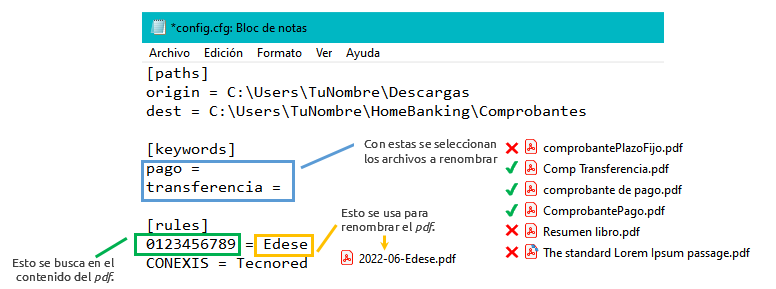
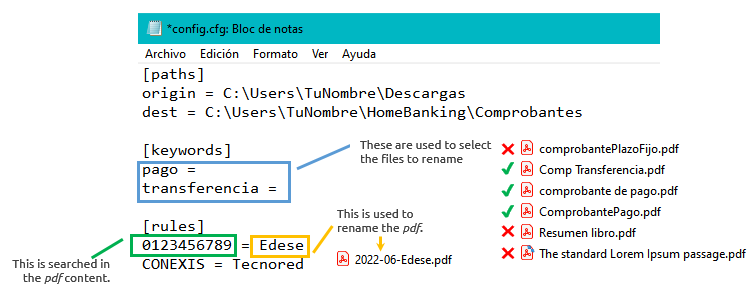
Modify and translate main README and add a README.es. Add translated config image.

diff --git a/README.md b/README.md
@@ -1,42 +1,46 @@
-# ordenamelo
-> Una app cli para renombrar y mover esos odiosos comprobantes de pago mensuales!
+# ordenamelo (tidy up)
 
-![license](https://img.shields.io/badge/license-Apache-orange)
+**A cli app to rename and move those awful monthly payment receipts!**
+
+![Category](https://img.shields.io/badge/%23-scripting%20%7C%20automation-success)
 ![made_with](https://img.shields.io/badge/Made%20with-Python-blue)
-[![Maintenance](https://img.shields.io/badge/Maintained%3F-yes-green.svg)](https://github.com/gonzalezgbr/sachagrilla/graphs/commit-activity)
+![license](https://img.shields.io/badge/license-Apache-orange)
 
 
-Si haces muchos pagos por home banking y guardas los comprobantes pero no tienes ganas de ordenarlos, esta es tu solución!
+*Read this in other languages:* [*README.es*](README.es.md) 
 
-Con `ordenamelo` puedes renombrar los archivos pdf de comprobantes de pago o transferencias con un solo comando. 
-Opcionalmente, se pueden mover a una carpeta pre-definida.
+## What is it?
 
-## Instalación
+If you usually make *a lot* of payments through home banking and like to save the receipts in an orderly fashion, but *really* hate to do it by hand, this is your solution!
 
-> ⚠ *Por el momento, `ordenamelo` solo se puede instalar como un paquete Python, es decir, tienes que tener Python y pip instalado en tu sistema.*   
+With `ordenamelo` you can rename the *pdf* files for payment or transfer receipts using a single command. They can also, optionally, be moved to a pre-defined folder. 
 
-1. Descargar `.whl` de la carpeta `dist/` de este repo.
-2. En una terminal ejecutar: 
+## Installation
+
+> ⚠ *Currently, `ordenamelo` can only be installed as a Python package, meaning you need to have Python and pip installed on your system.*   
+
+1. Download `.whl` file from `dist/` folder in this repo.
+2. Open a terminal window and execute: 
 
 - OS X & Linux:
 
 ```shell
-python3 -m pip install nombre_del_wheel_.whl
+python3 -m pip install wheel_name.whl
 ```
    
 - Windows:
 
 ```shell
-py -m pip install nombre_del_wheel.whl 
+py -m pip install wheel_name.whl 
 ```
 
-## Como usar
+## Usage
 
-La primera vez vas a tener que configurar tus carpetas, palabras clave y reglas.
+The first time to use it, you will need to configure folders, keywords and rules. 
 
-> ⚠ *Actualmente, `ordenamelo` solo funciona con comprobantes de los bancos Nación y Santander de Argentina.* 
+> ⚠ *Currently, `ordenamelo` only works with bank receipts from Banco de la Nación Argentina and Banco Santander.* 
 
-### Configurar
+### 1. Configure
 
 ```shell
 ordenamelo --config 
@@ -44,53 +48,69 @@ ordenamelo --config
 
 ![config](docs/config.png)
 
-- Sección `paths`:
-  - `origin` carpeta donde buscar los comprobantes. Usualmente será *descargas*.
-  - `dest` carpeta a donde mover los comprobantes. Tener en cuenta que dentro de esta carpeta:
-    - se crea una carpeta por año para guardar los comprobantes
-    - se crea una carpeta `transferencias` dentro de la anual para guardar los comprobantes de transferencias
+- Section `paths`:
+  - `origin` folder where to look for receipts. Usually *downloads*.
+  - `dest` folder where to move the receipts after renaming them. Within this folder:
+    - a yearly folder will be created, to store receipts by date 
+    - a `transferencias` folder will be created, within the yearly one, to store transfer receipts 
 
-- Sección `keywords`:
-  - Se deben incluir las palabras que identifican a los archivos. Usualmente `pago` y `transferencia` son suficientes.
-  - Deben ir una por línea y con signo = al final.
+- Section `keywords`:
+  - Include the words that identify the files to rename. Usually `pago` and `transferencia` are good enough.
+  - They must go one on each line and with the = sign at the end. 
 
-- Sección `rules`: contiene las reglas para renombrar los archivos.
-  - El formato general del nombre es AÑO-MES-textoDerechaRule.pdf
-    - El año y el mes se toman automáticamente el día del pago (cuando se genera el pdf del comprobante).
-    - Las claves (texto a la izquierda) deben identificar de forma única ese tipo de comprobante, por ejemplo, número de cliente o de cuenta.
+- Section `rules`: contains the rules to rename the files.
+  - The general naming format is AÑO-MES-textoDerechaRule.pdf
+    - *año* and *mes* are automatically calculated from the payment date (the day that the pdf file is generated).
+    - The *keys* (text to the left) must uniquely identify that type of receipt, for example, client or account number.
 
-### Uso
+> *Don't worry, you do this configuration only once!*
 
-Para renombrar y mover todos los archivos que se encuentran:
+### 2. Use
+
+To rename and move all the files that match the keywords and the rules:
 
 ```shell
 ordenamelo 
 ```
 
-Solo renombrar, sin mover:
+Just rename, don't move:
 
 ```shell
 ordenamelo -ro
 ```
 
-Mientras se ejecuta se imprimen mensajes indicando los archivos, encontrados, renombrados, movidos, etc.
+During execution, you will see messages indicating found files, renamesd files, moved files, and warnings. 
 
 ![ordenamelo-run](docs/ordenamelo.png)
+
+## License
+
+This project is licensed under the terms of the `Apache` license.
+You can check out the full license [here](LICENSE).
+
+
+## Built with
+
+This project was built with `python`:
+- `argparse` to process the cli options.
+- `pathlib` to deal with files and folders.
+- `pdfplumber`, a *3rd party lib*, to access the pdf files metadata and content.
 
 
 ## Release History
 
+* 0.1.1
+    * Minor style refactoring
+
 * 0.1.0
-    * Primer release
+    * First release
 
+## Feedback
 
-## Meta
+Any feedback is greatly appreciated! You can contact me via [`twitter`](https://twitter.com/GargaraG) or [`linkedin`](https://www.linkedin.com/in/gonzalezgbr/). 
 
-By GG - [@GargaraG](https://twitter.com/GargaraG) 
+Thanks for checking out this project ♥
 
-Distribuido bajo licencia Apache. Ver ``LICENSE`` para más información.
+---
 
-[https://github.com/gonzalezgbr/](https://github.com/gonzalezgbr/)
-
-
-
+**By GG** · [`github` @gonzalezgbr](https://github.com/gonzalezgbr/) · [`linkedin` @gonzalezgbr](https://www.linkedin.com/in/gonzalezgbr/) · [`twitter` @GargaraG](https://twitter.com/GargaraG) 

diff --git a/README.es.md b/README.es.md
@@ -1,0 +1,112 @@
+# ordenamelo
+
+**¡Una app cli para renombrar y mover esos odiosos comprobantes de pago mensuales!**
+
+![Category](https://img.shields.io/badge/%23-scripting%20%7C%20automation-success)
+![made_with](https://img.shields.io/badge/Made%20with-Python-blue)
+![license](https://img.shields.io/badge/license-Apache-orange)
+
+*Read this in other languages:* [*README.en*](README.md) 
+
+## ¿Qué es?
+
+Si haces *muchos* pagos por home banking y te gusta guardar los comprobantes de manera ordenada pero *no quieres* hacerlo a mano, ¡esta es tu solución!
+
+Con `ordenamelo` puedes renombrar los archivos *pdf* de comprobantes de pago o transferencias con un solo comando. 
+Opcionalmente, se pueden mover a una carpeta pre-definida.
+
+## Instalación
+
+> ⚠ *Por el momento, `ordenamelo` solo se puede instalar como un paquete Python, es decir, tienes que tener Python y pip instalado en tu sistema.*   
+
+1. Descargar `.whl` de la carpeta `dist/` de este repo.
+2. En una terminal ejecutar: 
+
+- OS X & Linux:
+
+```shell
+python3 -m pip install nombre_del_wheel_.whl
+```
+   
+- Windows:
+
+```shell
+py -m pip install nombre_del_wheel.whl 
+```
+
+## Como usar
+
+La primera vez que lo uses, vas a tener que configurar tus carpetas, palabras clave y reglas.
+
+> ⚠ *Actualmente, `ordenamelo` solo funciona con comprobantes de los bancos Nación y Santander de Argentina.* 
+
+### 1. Configurar
+
+```shell
+ordenamelo --config 
+```
+
+![config](docs/config-es.png)
+
+- Sección `paths`:
+  - `origin` carpeta donde buscar los comprobantes. Usualmente será *descargas*.
+  - `dest` carpeta a donde mover los comprobantes. Tener en cuenta que dentro de esta carpeta:
+    - se crea una carpeta por año para guardar los comprobantes
+    - se crea una carpeta `transferencias` dentro de la anual para guardar los comprobantes de transferencias
+
+- Sección `keywords`:
+  - Se deben incluir las palabras que identifican a los archivos. Usualmente `pago` y `transferencia` son suficientes.
+  - Deben ir una por línea y con signo = al final.
+
+- Sección `rules`: contiene las reglas para renombrar los archivos.
+  - El formato general del nombre es AÑO-MES-textoDerechaRule.pdf
+    - El año y el mes se toman automáticamente el día del pago (cuando se genera el pdf del comprobante).
+    - Las claves (texto a la izquierda) deben identificar de forma única ese tipo de comprobante, por ejemplo, número de cliente o de cuenta.
+
+### 2. Usar
+
+Para renombrar y mover todos los archivos que se encuentran:
+
+```shell
+ordenamelo 
+```
+
+Solo renombrar, sin mover:
+
+```shell
+ordenamelo -ro
+```
+
+Mientras se ejecuta se imprimen mensajes indicando los archivos, encontrados, renombrados, movidos, etc.
+
+![ordenamelo-run](docs/ordenamelo.png)
+
+## Licencia
+
+Este proyecto se distribuye bajo los términos de la licencia `Apache`.
+Puedes ver la licencia completa [aquí](LICENSE).
+
+## Hecho con
+
+Este proyecto se desarrolló con `python`:
+- `argparse` para procesar las opciones de linea de comandos.
+- `pathlib` para gestionar con archivos y carpetas.
+- `pdfplumber`, una *lib de 3ros*, para acceder a los metadatos y contenido de los archivos *pdf*.
+
+## Release History
+
+* 0.1.1
+    * Minor style refactoring
+
+* 0.1.0
+    * First release
+
+## Feedback
+
+¡Todo comentario y sugerencia es bienvenido! Puedes contactarme a través de [`twitter`](https://twitter.com/GargaraG) o [`linkedin`](https://www.linkedin.com/in/gonzalezgbr/). 
+
+Gracias por visitar este proyecto ♥
+
+---
+
+**By GG** · [`github` @gonzalezgbr](https://github.com/gonzalezgbr/) · [`linkedin` @gonzalezgbr](https://www.linkedin.com/in/gonzalezgbr/) · [`twitter` @GargaraG](https://twitter.com/GargaraG) 
